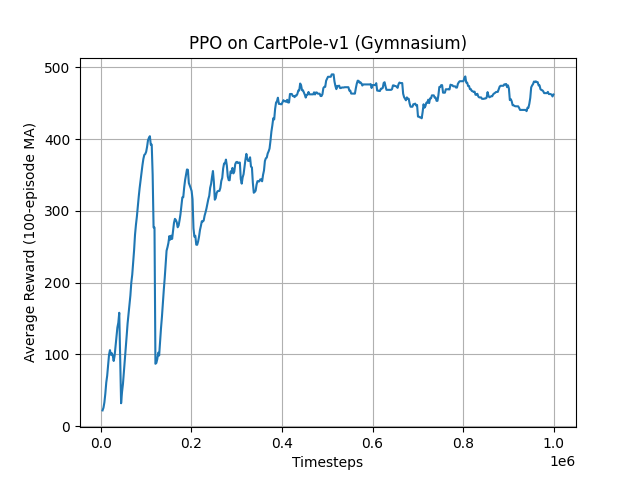
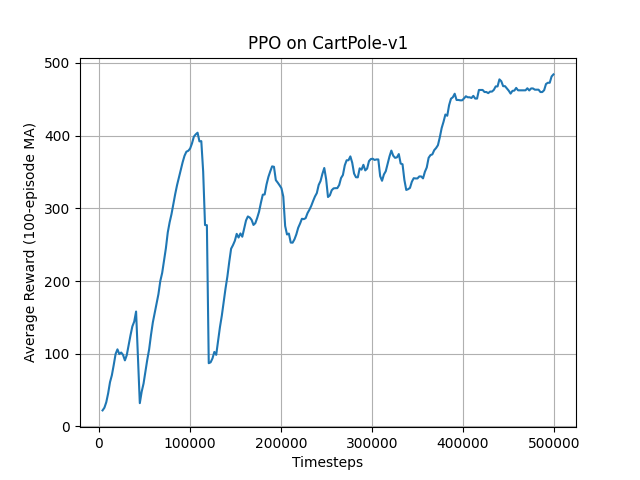
change steps to 500000

diff --git a/ppo.py b/ppo.py
@@ -9,16 +9,6 @@ import matplotlib
 matplotlib.use('Agg')  # headless backend (no GUI needed)
 import matplotlib.pyplot as plt
 
-"""
-PPO‑Clip on CartPole‑v1 (PyTorch)
----------------------------------
-* Trains for a **fixed 1 million timesteps** (no early stop).
-* Logs 100‑episode moving‑average reward and saves a learning‑curve plot.
-* Minimal but extensible reference implementation.
-
-Author: ChatGPT (OpenAI o3)
-"""
-
 device = torch.device("cuda" if torch.cuda.is_available() else "cpu")
 
 
@@ -105,7 +95,7 @@ def ppo_update(model, optimizer, clip_eps, obs, actions, old_log_probs, returns,
 
 def train(seed=42,
           env_id="CartPole-v1",
-          total_timesteps=1_000_000,
+          total_timesteps=500_000,
           rollout_len=2048,
           update_epochs=10,
           batch_size=64,
